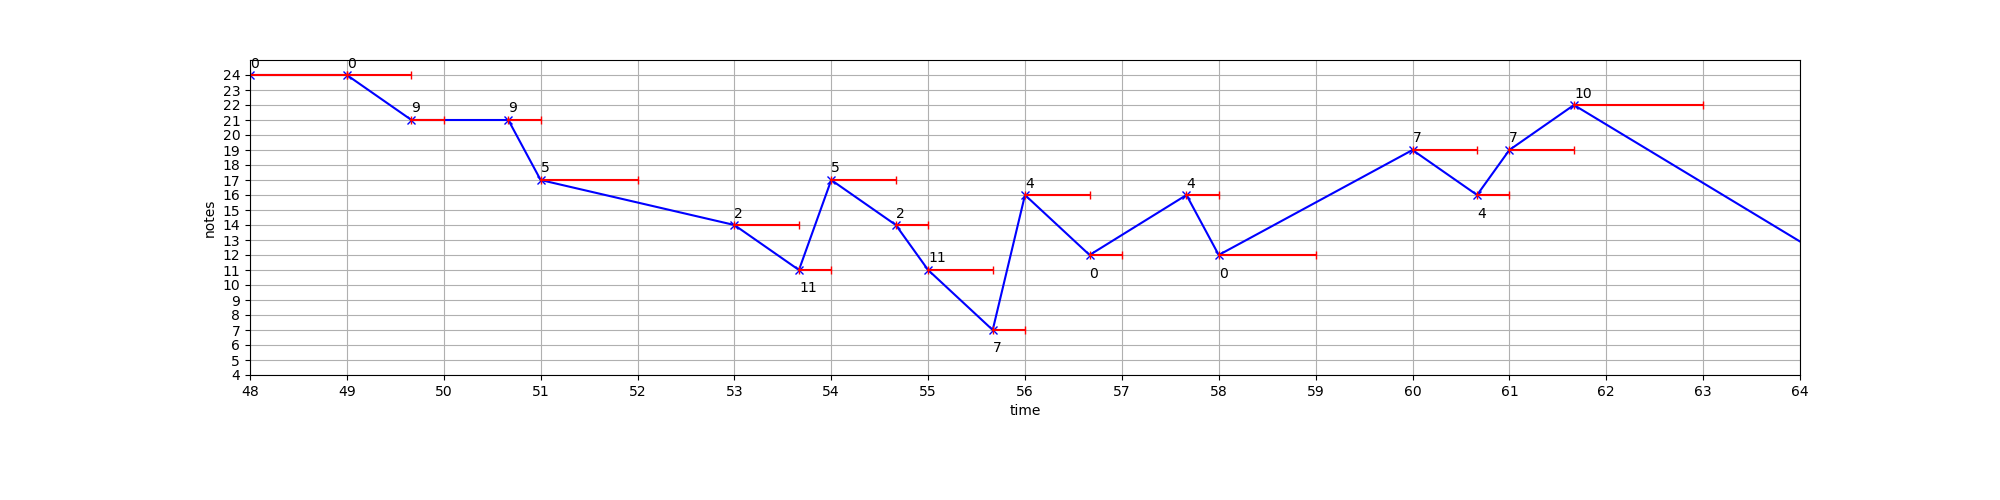
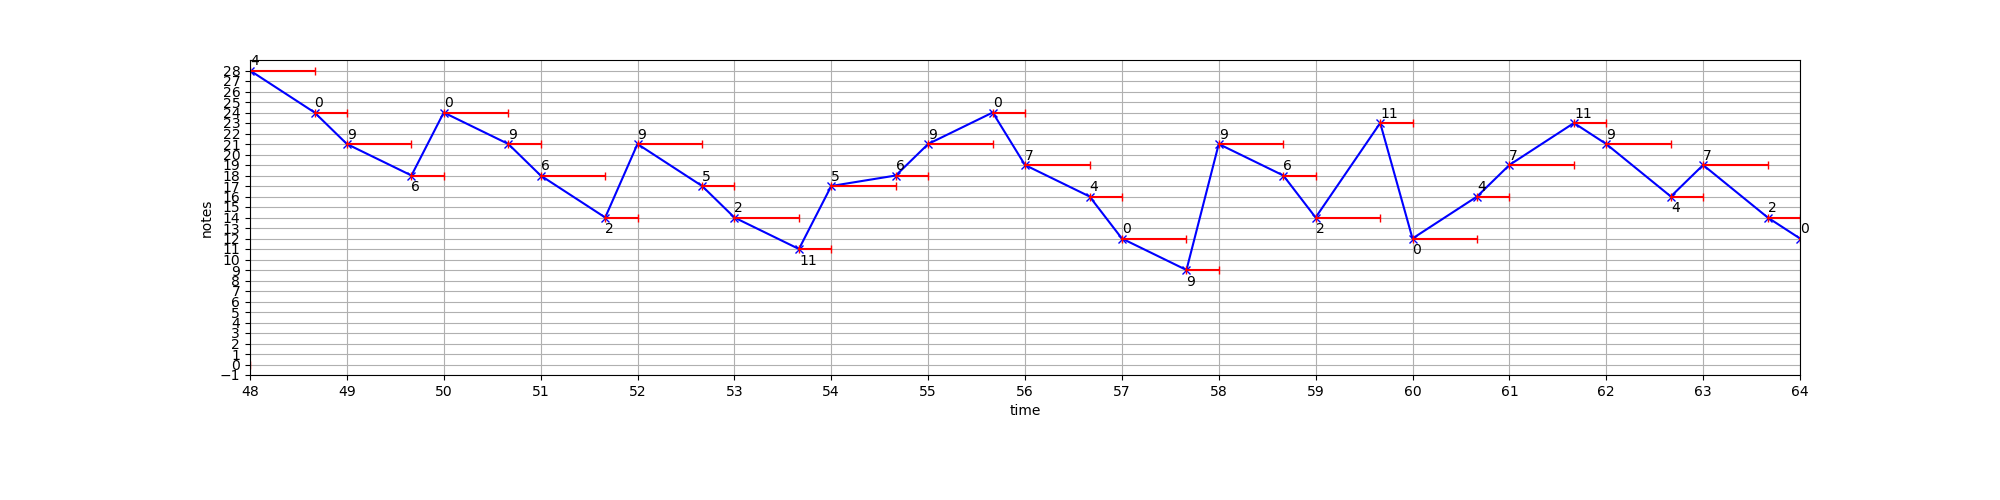
add in song to graph generation

Changed region(s): [[0.093, 0.12, 0.899, 0.75]]

diff --git a/graph_music/song_data.py b/graph_music/song_data.py
@@ -1,0 +1,110 @@
+
+from fractions import Fraction
+# single beat (4 beats in a measure
+b = 1
+# half
+h = 1/2
+# thirds
+t = Fraction(b, 3)
+# two thirds
+tt = 2 * t
+
+jens_solo_arps = [
+    ("0' 4' 7' 11' R", [tt, t, tt, t+b, b]), ("R 7' 4' 7' 7'", [tt, t, tt, t + b, b]),
+    ("9' 6' R", [b + tt, t + b, b]), ("6' 2' 9' 6' 0'' 9' R",[tt, t, tt, t, tt, t, b]),
+
+    ("5' 2' 9' 0'' 5'", [tt, t, tt, t + b, b]),
+    ("2' 7 11 2' 5' 2' R", [tt, t, tt, t, tt, t, b]),
+    ("4' 4' 4' 0'",  [b, tt, t + b, b]),
+    ("11 7 11 2' 5' 2' R", [tt, t, tt, t, tt, t, b]),
+
+    ("4' 0' R 4' R 4' R 4'",[tt, t, tt, t, tt, t, tt, t]), ("7' 4' 7' 7' R 11'", [tt, t, tt, t, 1 + tt, t]),
+    ("0'' 0'' 9' R 9' 6'", [b, tt, t, tt, t, b]), ( "R 2' 2' 2' R",[ b, b, tt, t, b]),
+
+    ("0'' 0'' 9' R 9' 5'", [b, tt, t, tt, t, b]),
+    ("R 2' 11 5' 2' 11 7", [b, tt, t, tt, t, tt, t]),
+    ("4' 0' R 4' 0' R", [tt, t, tt, t, b, b]),
+    ("7' 4' 7' 10' R", [tt, t, tt, t + b, b]),
+    
+    ("R 9 0' 9 0' 9",[b, b, tt, t, tt, t]), ("5 9 0' 4' R",[tt, t, tt, t + b, b]), ( "R 0' 4' 0' R",[b, b, tt, t, b]), ("9 0' 5 R", [b, tt, t + b, b]),
+
+    ("2' R 0'' 6' 9' 6'",[b, b, tt, t, tt, t]), ( "0'' 0'' 9' R",[b, tt, t + b, b]),
+    ("9' R 9' 2' 5' 2'", [b, b, tt, t, tt, t]),
+    ("11 11 2' R", [b, tt, t + b, b]),
+    
+    ("4' 0' 7' 0' R 4' 7' 11'", [tt, t, tt, t, tt, t, tt, t+b]),("7' 11' R", [tt, t + b, b]),
+    ("6' 2' 9' 2' R 9'", [tt, t, tt, t, b, b]),("0'' 6' R 9' R",[tt, t, tt, t + b, b]),
+
+    ("9' 2' R 5' 2'", [tt, t, tt, t + b, b]),
+    ("5' 11 R 2' 5'", [tt, t, tt, t + b, b]),
+    ("4' 0' 7' 4' 7' 11'", [tt, t, tt, t, tt, t + b]),
+    ("R", [4 * b]),
+]
+
+arp_ex_9_0_4_7 = [
+        ("9 11 0' 4' 7' 4' 11' 10' ", [tt, t, tt, t, tt, t, tt, t]),
+        ("9' 7' 2' 4'", [tt, t, tt, t + 2*b])
+]
+
+arp_exm_9_0_4_7 = [
+        ("0u 4u 7u 9u 11u 0uu 9u 7u", [tt, t, tt, t, tt, t, tt, t]),
+        ("4u 2u 1u 0u", [tt, t, tt, t + 2*b])
+]
+
+arp_ex_0_4_7_11 = [
+        ("4' 5' 7' 9' 11' 0'' 9' 7'", [tt, t, tt, t, tt, t, tt, t]),
+        ("4' 2' 1' 0'", [tt, t, tt, t + 2 * b])
+]
+
+#template = [
+#        (, []),
+#        (, [])
+#]
+
+arp_ex_5_9_0_4 = [
+        ("2'' 4'' 2'' 11' 0'' 9' 5' 2'", [tt, t, tt, t, tt, t, tt, t]),
+        ("4' 2' 0' 9", [tt, t, tt, t + 2 * b]),
+]
+
+arp_ex2_9_0_4_7 = [
+        ("4 7 11 2' 0' 4' 7' 11'", [tt, t, tt, t, tt, t, tt, t]),
+        ("9' 7' 9' 2''", [tt, t, tt, t + 2 * b]),
+]
+
+arp_ex3_9_0_4_7 = [
+        ("7' 4' 0' 9 2' 11 7 4", [tt, t, tt, t, tt, t, tt, t]),
+        ("0' 9 10 11 7 4 2 0", [tt, t, tt, t, tt, t, tt, t]),
+]
+
+arp_ex_2_6_9_0 = [
+        ("4'' 0'' 9' 6' 0'' 9' 6' 2'", [tt, t, tt, t, tt, t, tt, t]),
+        ("9' 5' 2' 11 5' 6' 9' 0''", [tt, t, tt, t, tt, t, tt, t]),
+]
+
+arp_ex4_9_0_4_7 = [
+        ("7u 4u 0u 9 9u 6u 2u 11 ", [tt, t, tt, t, tt, t, tt, t]),
+        ("0u 4u 7u 11u 9u 4u 7u 2u", [tt, t, tt, t, tt, t, tt, t]),
+]
+
+arp_ex5_9_0_4_7 = [
+        ("0u 4 7 11 9 7 4 5", [tt, t, tt, t, tt, t, tt, t]),
+        ("6 9 0u 3u 2u 3u 2u 0u 10 11", [tt, t, tt, t, tt/3, tt/3, tt/3, t, tt, t]),
+]
+
+arp_ex6_9_0_4_7 = [
+        ("0uu 2uu 11u 10u 9u 0u 4u 7u", [tt, t, tt, t, tt, t, tt, t]),
+        ("6u 3u 2u 11 0u 2u 3u 5u", [tt, t, tt, t, tt, t, tt, t]),
+        ("2u", [4 * b]),
+]
+
+arp_ex7_9_0_4_7 = [
+        ("2uu 1uu 0uu 9u 11u 7u 4u 0u", [tt, t, tt, t, tt, t, tt, t]),
+        ("10u 6u 3u 0u 10u 6u R 9u", [tt, t, tt, t, tt, t, tt, t]),
+        ("9u 5u 2u 11 11 R ", [b, tt, t, tt, t, b]),
+]
+
+
+all_examples = [arp_ex_9_0_4_7, arp_exm_9_0_4_7,arp_ex_5_9_0_4 , arp_ex2_9_0_4_7,  arp_ex3_9_0_4_7, arp_ex_2_6_9_0, arp_ex4_9_0_4_7, arp_ex5_9_0_4_7, arp_ex6_9_0_4_7, arp_ex7_9_0_4_7]
+all_examples_cont = []
+for example in all_examples:
+    all_examples_cont.extend(example)

diff --git a/graph_music/graph.py b/graph_music/graph.py
@@ -1,51 +1,14 @@
 import numpy as np
 import re
-from fractions import Fraction
 import matplotlib.pyplot as plt
 from matplotlib.widgets import Slider
+from song_data import *
 
 plt.rcParams["figure.figsize"] = (20,5)
 
-# single beat (4 beats in a measure
-b = 1
-# half
-h = 1/2
-# thirds
-t = Fraction(b, 3)
-# two thirds
-tt = 2 * t
 
-song = [
-    ("0' 4' 7' 11' R", [tt, t, tt, t+b, b]), ("R 7' 4' 7' 7'", [tt, t, tt, t + b, b]),
-    ("9' 6' R", [b + tt, t + b, b]), ("6' 2' 9' 6' 0'' 9' R",[tt, t, tt, t, tt, t, b]),
+song = all_examples_cont
 
-    ("5' 2' 9' 0'' 5'", [tt, t, tt, t + b, b]),
-    ("2' 7 11 2' 5' 2' R", [tt, t, tt, t, tt, t, b]),
-    ("4' 4' 4' 0'",  [b, tt, t + b, b]),
-    ("11 7 11 2' 5' 2' R", [tt, t, tt, t, tt, t, b]),
-
-    ("4' 0' R 4' R 4' R 4'",[tt, t, tt, t, tt, t, tt, t]), ("7' 4' 7' 7' R 11'", [tt, t, tt, t, 1 + tt, t]),
-    ("0'' 0'' 9' R 9' 6'", [b, tt, t, tt, t, b]), ( "R 2' 2' 2' R",[ b, b, tt, t, b]),
-
-    ("0'' 0'' 9' R 9' 5'", [b, tt, t, tt, t, b]),
-    ("R 2' 11 5' 2' 11 7", [b, tt, t, tt, t, tt, t]),
-    ("4' 0' R 4' 0' R", [tt, t, tt, t, b, b]),
-    ("7' 4' 7' 10' R", [tt, t, tt, t + b, b]),
-    
-    ("R 9 0' 9 0' 9",[b, b, tt, t, tt, t]), ("5 9 0' 4' R",[tt, t, tt, t + b, b]), ( "R 0' 4' 0' R",[b, b, tt, t, b]), ("9 0' 5 R", [b, tt, t + b, b]),
-
-    ("2' R 0'' 6' 9' 6'",[b, b, tt, t, tt, t]), ( "0'' 0'' 9' R",[b, tt, t + b, b]),
-    ("9' R 9' 2' 5' 2'", [b, b, tt, t, tt, t]),
-    ("11 11 2' R", [b, tt, t + b, b]),
-    
-    ("4' 0' 7' 0' R 4' 7' 11'", [tt, t, tt, t, tt, t, tt, t+b]),("7' 11' R", [tt, t + b, b]),
-    ("6' 2' 9' 2' R 9'", [tt, t, tt, t, b, b]),("0'' 6' R 9' R",[tt, t, tt, t + b, b]),
-
-    ("9' 2' R 5' 2'", [tt, t, tt, t + b, b]),
-    ("5' 11 R 2' 5'", [tt, t, tt, t + b, b]),
-    ("4' 0' 7' 4' 7' 11'", [tt, t, tt, t, tt, t + b]),
-    ("R", [4 * b]),
-]
 
 def get_intervals(x):
   intervals = []
@@ -64,12 +27,12 @@ def parse_notation(notation):
   else:
       digit = int(found)
 
-  m = re.search(r"[,']", notation)
+  m = re.search(r"[,'ud]", notation)
 
   if m:
      direction = notation[m.start()]
      count = len(notation[m.start():])
-     multiplier = -1 if direction == ',' else 1
+     multiplier = -1 if direction in ['d',','] else 1
 
      return digit + multiplier * count * 12
   else:
@@ -173,11 +136,26 @@ for i in range(len(x)):
 #
 #spos.on_changed(update)
 
-for i in range(8):
-    start = i * 16
-    end = start + 16
-    ax.axis([start, end, min(y)-1, max(y)+1])
-    fig.canvas.draw_idle()
-    plt.savefig(str(i) + 'analysis.png',pad_inches=0)
+#for i in range(8):
+#    start = i * 16
+#    end = start + 16
+#    ax.axis([start, end, min(y)-1, max(y)+1])
+#    fig.canvas.draw_idle()
+#    plt.savefig(str(i) + 'analysis.png',pad_inches=0)
+
+pos = 0
+i=0
+for example in all_examples:
+   start = pos
+   end = start + 4 * len(example)
+   all_notes = ' '.join([tup[0] for tup in example if tup])
+   intervals = [x for x in get_intervals(all_notes) if x is not None]
+   print(all_notes, intervals, sep="|")
+   ax.axis([start, end, min(intervals)-1, max(intervals)+1])
+   fig.canvas.draw_idle()
+   plt.savefig(str(i) + 'example.png',pad_inches=0)
+   pos = end
+   i+=1
+
 
 #plt.show()
